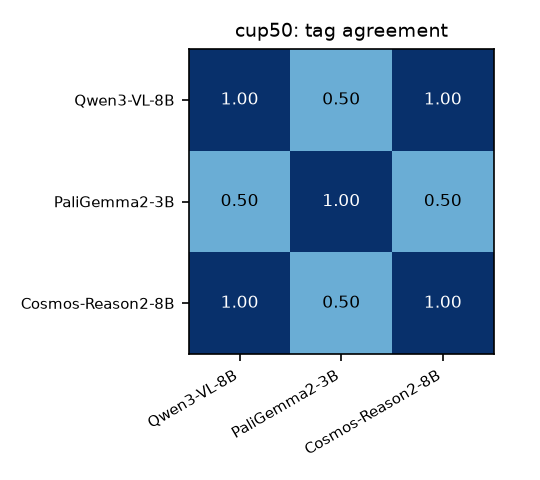
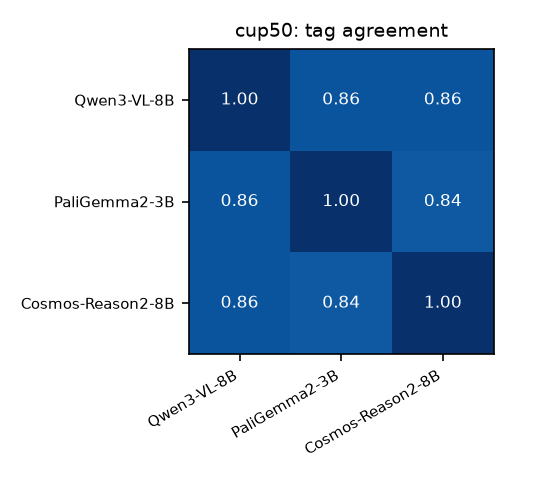
cup50: all three VLMs on all 50 clips; fused final verdict 35/15 (30% failure), 27/50 unanimous
PaliGemma re-run with the direct 'is the cup resting on the saucer?'
question: its late p(done) range went from 0.28-0.65 (hedging) to
0.07-0.97. Report, README, slide numbers refreshed.

Changed region(s): [[0.3259, 0.0938, 0.9185, 0.75]]

diff --git a/SLIDE.html b/SLIDE.html
@@ -37,7 +37,7 @@
         <tr><th>Track 3 asks for</th><th>We ship</th></tr>
         <tr><td>Tagged episodes</td><td>success/failure per episode from per-frame <b>p(goal state)</b> read from Qwen3-VL / Cosmos-Reason2 / PaliGemma logits</td></tr>
         <tr><td>Confidence meter</td><td>the p(done) curve itself, rendered as a video per episode (bar + sparkline)</td></tr>
-        <tr><td>Prevalence audit</td><td>SAM 3 cup-in-saucer test on 50 human clips → <span class="big">28% failure</span></td></tr>
+        <tr><td>Prevalence audit</td><td>SAM 3 + 3 VLMs fused on 50 human clips → <span class="big">30% failure</span></td></tr>
       </table>
     </div>
 
@@ -61,7 +61,7 @@
       <h2>Unlabelled human video — three VLM lineages, one code path</h2>
       <table>
         <tr><th></th><th>Qwen3-VL-8B</th><th>PaliGemma2-3B</th><th>Cosmos-Reason2-8B</th><th>SAM 3</th></tr>
-        <tr><td>cup50 short clips (n=8, end of clip)</td><td class="num">8/9 ✅</td><td class="num">3/8</td><td class="num">7/8</td><td class="num"><b>36/50 → 28% fail</b></td></tr>
+        <tr><td>cup50 clips (n=50, end of clip)</td><td class="num">39/50 ✅</td><td class="num">42/50</td><td class="num">34/50</td><td class="num"><b>fused: 35/50 → 30% fail</b></td></tr>
         <tr><td>aria 2-min egocentric (n=8, peak)</td><td class="num">8/8</td><td class="num">8/8</td><td class="num">6/8</td><td class="num">2/5</td></tr>
       </table>
     </div>

diff --git a/results/README.md b/results/README.md
@@ -7,9 +7,9 @@ Generated by `fuse/report.py` from the traces on disk.
 | dataset | model | n | tag stat | tagged success | tagged failure | failure prevalence | success @late | success @max | accuracy | AUROC |
 |---|---|---|---|---|---|---|---|---|---|---|
 | eva | Qwen3-VL-8B | 20 | late | 10 | 10 | 50% | 10/20 | 17/20 | 0.70 | 0.83 |
-| cup50 | Qwen3-VL-8B | 9 | late | 8 | 1 | 11% | 8/9 | 8/9 | — | — |
-| cup50 | PaliGemma2-3B | 8 | late | 3 | 5 | 62% | 3/8 | 8/8 | — | — |
-| cup50 | Cosmos-Reason2-8B | 8 | late | 7 | 1 | 12% | 7/8 | 8/8 | — | — |
+| cup50 | Qwen3-VL-8B | 50 | late | 39 | 11 | 22% | 39/50 | 48/50 | — | — |
+| cup50 | PaliGemma2-3B | 50 | late | 42 | 8 | 16% | 42/50 | 49/50 | — | — |
+| cup50 | Cosmos-Reason2-8B | 50 | late | 34 | 16 | 32% | 34/50 | 47/50 | — | — |
 | aria | Qwen3-VL-8B | 8 | max | 8 | 0 | 0% | 0/8 | 8/8 | — | — |
 | aria | PaliGemma2-3B | 8 | max | 8 | 0 | 0% | 4/8 | 8/8 | — | — |
 | aria | Cosmos-Reason2-8B | 8 | max | 6 | 2 | 25% | 0/8 | 6/8 | — | — |
@@ -53,15 +53,56 @@ Accuracy/AUROC only where ground truth exists (eva); AUROC is threshold-free. Ta
 
 | episode | label | Qwen3-VL-8B (late) | PaliGemma2-3B (late) | Cosmos-Reason2-8B (late) | SEG | consensus |
 |---|---|---|---|---|---|---|
-| 2025-11-14-16-19-50-305000 | — | ✅ 0.53 (late 0.53 / max 1.00) | — | — | ✅ 0.50 | success (2/2) |
-| 692e98927641010d04354574 | — | ✅ 1.00 (late 1.00 / max 1.00) | ✅ 0.58 (late 0.58 / max 0.68) | ✅ 0.96 (late 0.96 / max 0.96) | ✅ 1.00 | success (4/4) |
-| 692e9b6668228e362d908f0e | — | ✅ 1.00 (late 1.00 / max 1.00) | ❌ 0.32 (late 0.32 / max 0.56) | ✅ 0.94 (late 0.94 / max 0.97) | ✅ 1.00 | success (3/4) |
-| 692e9fa092a31767e35da22c | — | ✅ 0.92 (late 0.92 / max 0.98) | ❌ 0.41 (late 0.41 / max 0.59) | ✅ 0.75 (late 0.75 / max 0.75) | ✅ 1.00 | success (3/4) |
-| 692ea164e2322e3b092b5dd8 | — | ✅ 1.00 (late 1.00 / max 1.00) | ❌ 0.47 (late 0.47 / max 0.58) | ✅ 0.88 (late 0.88 / max 0.88) | ✅ 1.00 | success (3/4) |
-| 692ea2012c8fefa9948e8dd0 | — | ✅ 1.00 (late 1.00 / max 1.00) | ✅ 0.55 (late 0.55 / max 0.68) | ✅ 0.95 (late 0.95 / max 0.95) | ✅ 1.00 | success (4/4) |
-| 692ea3beffdc0ca6345c4246 | — | ❌ 0.00 (late 0.00 / max 0.38) | ❌ 0.47 (late 0.47 / max 0.55) | ❌ 0.32 (late 0.32 / max 0.78) | ✅ 1.00 | failure (1/4) |
-| 692ea4da74b24813e759755d | — | ✅ 1.00 (late 1.00 / max 1.00) | ✅ 0.59 (late 0.59 / max 0.71) | ✅ 0.86 (late 0.86 / max 0.90) | ✅ 1.00 | success (4/4) |
-| 692ea671dbc4294a49cc727e | — | ✅ 0.56 (late 0.56 / max 0.94) | ❌ 0.44 (late 0.44 / max 0.56) | ✅ 0.73 (late 0.73 / max 0.85) | ❌ 0.00 | split (2/4) |
+| 2025-11-14-16-19-50-305000 | — | ✅ 0.52 (late 0.52 / max 1.00) | ✅ 0.55 (late 0.55 / max 0.94) | ✅ 0.51 (late 0.51 / max 0.99) | ✅ 0.50 | success (4/4) |
+| 2025-11-14-16-39-40-009000 | — | ❌ 0.47 (late 0.47 / max 1.00) | ❌ 0.44 (late 0.44 / max 0.98) | ❌ 0.42 (late 0.42 / max 0.98) | ❌ 0.44 | failure (0/4) |
+| 2025-11-24-19-42-18-324000 | — | ❌ 0.21 (late 0.21 / max 1.00) | ❌ 0.34 (late 0.34 / max 0.94) | ❌ 0.23 (late 0.23 / max 0.93) | ❌ 0.28 | failure (0/4) |
+| 2025-11-30-16-25-06-265000 | — | ❌ 0.33 (late 0.33 / max 1.00) | ✅ 0.52 (late 0.52 / max 0.96) | ❌ 0.45 (late 0.45 / max 0.96) | ❌ 0.04 | failure (1/4) |
+| 2025-12-24-19-36-56-086000 | — | ❌ 0.18 (late 0.18 / max 1.00) | ❌ 0.45 (late 0.45 / max 0.97) | ❌ 0.14 (late 0.14 / max 0.65) | ❌ 0.30 | failure (0/4) |
+| 2025-12-25-20-00-08-755000 | — | ✅ 0.88 (late 0.88 / max 1.00) | ✅ 0.84 (late 0.84 / max 0.97) | ❌ 0.37 (late 0.37 / max 0.56) | ✅ 1.00 | success (3/4) |
+| 2025-12-26-00-56-41-044000 | — | ✅ 0.79 (late 0.79 / max 0.99) | ❌ 0.39 (late 0.39 / max 0.92) | ❌ 0.44 (late 0.44 / max 0.68) | ✅ 1.00 | split (2/4) |
+| 2025-12-26-18-05-07-214000 | — | ✅ 0.54 (late 0.54 / max 0.99) | ✅ 0.61 (late 0.61 / max 0.94) | ❌ 0.12 (late 0.12 / max 0.25) | ✅ 0.60 | success (3/4) |
+| 2025-12-26-18-31-01-838000 | — | ✅ 0.50 (late 0.50 / max 1.00) | ❌ 0.18 (late 0.18 / max 0.86) | ❌ 0.14 (late 0.14 / max 0.59) | ✅ 0.57 | split (2/4) |
+| 2026-01-11-18-13-58-430000 | — | ✅ 0.51 (late 0.51 / max 0.90) | ✅ 0.67 (late 0.67 / max 0.87) | ❌ 0.14 (late 0.14 / max 0.29) | ✅ 0.83 | success (3/4) |
+| 2026-01-11-23-11-22-998000 | — | ❌ 0.00 (late 0.00 / max 0.00) | ❌ 0.07 (late 0.07 / max 0.07) | ❌ 0.00 (late 0.00 / max 0.00) | ❌ 0.00 | failure (0/4) |
+| 2026-01-20-19-49-03-357000 | — | ❌ 0.15 (late 0.15 / max 0.99) | ❌ 0.21 (late 0.21 / max 0.78) | ❌ 0.23 (late 0.23 / max 0.84) | ❌ 0.27 | failure (0/4) |
+| 2026-01-24-05-29-04-636000 | — | ❌ 0.33 (late 0.33 / max 1.00) | ❌ 0.38 (late 0.38 / max 0.96) | ❌ 0.33 (late 0.33 / max 0.98) | ❌ 0.35 | failure (0/4) |
+| 692e98927641010d04354574 | — | ✅ 1.00 (late 1.00 / max 1.00) | ✅ 0.79 (late 0.79 / max 0.86) | ✅ 0.96 (late 0.96 / max 0.96) | ✅ 1.00 | success (4/4) |
+| 692e9b6668228e362d908f0e | — | ✅ 1.00 (late 1.00 / max 1.00) | ✅ 0.95 (late 0.95 / max 0.95) | ✅ 0.94 (late 0.94 / max 0.97) | ✅ 1.00 | success (4/4) |
+| 692e9fa092a31767e35da22c | — | ✅ 0.92 (late 0.92 / max 0.98) | ✅ 0.59 (late 0.59 / max 0.88) | ✅ 0.75 (late 0.75 / max 0.75) | ✅ 1.00 | success (4/4) |
+| 692ea164e2322e3b092b5dd8 | — | ✅ 1.00 (late 1.00 / max 1.00) | ✅ 0.87 (late 0.87 / max 0.87) | ✅ 0.88 (late 0.88 / max 0.88) | ✅ 1.00 | success (4/4) |
+| 692ea2012c8fefa9948e8dd0 | — | ✅ 1.00 (late 1.00 / max 1.00) | ✅ 0.83 (late 0.83 / max 0.83) | ✅ 0.95 (late 0.95 / max 0.95) | ✅ 1.00 | success (4/4) |
+| 692ea3beffdc0ca6345c4246 | — | ❌ 0.00 (late 0.00 / max 0.38) | ✅ 0.58 (late 0.58 / max 0.58) | ❌ 0.32 (late 0.32 / max 0.78) | ✅ 1.00 | split (2/4) |
+| 692ea4da74b24813e759755d | — | ✅ 1.00 (late 1.00 / max 1.00) | ✅ 0.94 (late 0.94 / max 0.97) | ✅ 0.86 (late 0.86 / max 0.90) | ✅ 1.00 | success (4/4) |
+| 692ea671dbc4294a49cc727e | — | ✅ 0.56 (late 0.56 / max 0.94) | ✅ 0.74 (late 0.74 / max 0.97) | ✅ 0.73 (late 0.73 / max 0.85) | ❌ 0.00 | success (3/4) |
+| 692ea6ffc621d7f4aac3aafc | — | ❌ 0.32 (late 0.32 / max 0.99) | ✅ 0.83 (late 0.83 / max 0.83) | ✅ 0.50 (late 0.50 / max 0.85) | ❌ 0.00 | split (2/4) |
+| 692ea773b77ab81b8b41ee87 | — | ✅ 1.00 (late 1.00 / max 1.00) | ✅ 0.87 (late 0.87 / max 0.87) | ✅ 0.78 (late 0.78 / max 0.78) | ✅ 1.00 | success (4/4) |
+| 692ea7b368228e362d90908e | — | ✅ 1.00 (late 1.00 / max 1.00) | ✅ 0.92 (late 0.92 / max 0.92) | ✅ 0.94 (late 0.94 / max 0.97) | ✅ 1.00 | success (4/4) |
+| 692ea7ff4e7eab2cafd26992 | — | ✅ 0.98 (late 0.98 / max 0.99) | ✅ 0.94 (late 0.94 / max 0.94) | ✅ 0.89 (late 0.89 / max 0.90) | ✅ 1.00 | success (4/4) |
+| 692ea886e2322e3b092b5ee5 | — | ✅ 0.88 (late 0.88 / max 0.94) | ✅ 0.73 (late 0.73 / max 0.83) | ❌ 0.44 (late 0.44 / max 0.88) | ✅ 1.00 | success (3/4) |
+| 692ea8fb727c13b350cb7cb8 | — | ✅ 1.00 (late 1.00 / max 1.00) | ✅ 0.96 (late 0.96 / max 0.96) | ✅ 0.96 (late 0.96 / max 0.96) | ✅ 1.00 | success (4/4) |
+| 692ea92a99488ff84776f987 | — | ✅ 0.73 (late 0.73 / max 1.00) | ✅ 0.85 (late 0.85 / max 0.85) | ✅ 0.75 (late 0.75 / max 0.90) | ❌ 0.00 | success (3/4) |
+| 692ea97bea43f09edf26f5fb | — | ✅ 0.99 (late 0.99 / max 0.99) | ✅ 0.86 (late 0.86 / max 0.86) | ✅ 0.88 (late 0.88 / max 0.88) | ❌ 0.00 | success (3/4) |
+| 692ea9bc95aad87d3e34466a | — | ✅ 0.99 (late 0.99 / max 1.00) | ✅ 0.64 (late 0.64 / max 0.85) | ✅ 0.82 (late 0.82 / max 0.90) | ✅ 1.00 | success (4/4) |
+| 692ea9ffaec602a46af10605 | — | ✅ 0.50 (late 0.50 / max 0.50) | ✅ 0.86 (late 0.86 / max 0.86) | ✅ 0.62 (late 0.62 / max 0.62) | ✅ 1.00 | success (4/4) |
+| 692eaa05c7cb0e94dc84bbf5 | — | ❌ 0.44 (late 0.44 / max 0.99) | ✅ 0.71 (late 0.71 / max 0.79) | ❌ 0.47 (late 0.47 / max 0.75) | ✅ 1.00 | split (2/4) |
+| 692eaa59a0e165ab2e42e516 | — | ✅ 0.96 (late 0.96 / max 0.96) | ✅ 0.90 (late 0.90 / max 0.90) | ✅ 0.95 (late 0.95 / max 0.95) | ❌ 0.00 | success (3/4) |
+| 692eaa5fd3d807884d4dd7ae | — | ✅ 1.00 (late 1.00 / max 1.00) | ✅ 0.90 (late 0.90 / max 0.90) | ✅ 0.90 (late 0.90 / max 0.90) | ✅ 1.00 | success (4/4) |
+| 692eaa76dfa4113987776a57 | — | ✅ 0.95 (late 0.95 / max 0.95) | ✅ 0.97 (late 0.97 / max 0.97) | ✅ 0.88 (late 0.88 / max 0.88) | ❌ 0.00 | success (3/4) |
+| 692eaac0c621d7f4aac3ab9d | — | ✅ 1.00 (late 1.00 / max 1.00) | ✅ 0.91 (late 0.91 / max 0.91) | ✅ 0.96 (late 0.96 / max 0.96) | ✅ 1.00 | success (4/4) |
+| 692eab1cb77ab81b8b41eeec | — | ✅ 0.95 (late 0.95 / max 0.95) | ✅ 0.80 (late 0.80 / max 0.80) | ✅ 0.88 (late 0.88 / max 0.89) | ✅ 1.00 | success (4/4) |
+| 692eac0739719ab57395b969 | — | ✅ 0.78 (late 0.78 / max 0.94) | ✅ 0.65 (late 0.65 / max 0.86) | ✅ 0.59 (late 0.59 / max 0.68) | ✅ 1.00 | success (4/4) |
+| 692eac2caec602a46af1065e | — | ✅ 0.95 (late 0.95 / max 0.95) | ✅ 0.73 (late 0.73 / max 0.73) | ✅ 0.89 (late 0.89 / max 0.89) | ✅ 1.00 | success (4/4) |
+| 692eac7274b24813e759760d | — | ✅ 1.00 (late 1.00 / max 1.00) | ✅ 0.93 (late 0.93 / max 0.93) | ✅ 0.59 (late 0.59 / max 0.73) | ✅ 1.00 | success (4/4) |
+| 692ead5d3019385fbbf5683e | — | ✅ 1.00 (late 1.00 / max 1.00) | ✅ 0.67 (late 0.67 / max 0.67) | ✅ 0.75 (late 0.75 / max 0.75) | ✅ 1.00 | success (4/4) |
+| 692ead5e3019385fbbf5684a | — | ✅ 1.00 (late 1.00 / max 1.00) | ✅ 0.73 (late 0.73 / max 0.74) | ✅ 0.84 (late 0.84 / max 0.84) | ✅ 1.00 | success (4/4) |
+| 692eae07424dbf22e75ed141 | — | ✅ 1.00 (late 1.00 / max 1.00) | ✅ 0.81 (late 0.81 / max 0.81) | ✅ 0.94 (late 0.94 / max 0.94) | ✅ 1.00 | success (4/4) |
+| 692eae54c621d7f4aac3abd6 | — | ✅ 1.00 (late 1.00 / max 1.00) | ✅ 0.83 (late 0.83 / max 0.83) | ✅ 0.95 (late 0.95 / max 0.95) | ✅ 1.00 | success (4/4) |
+| 692eae813019385fbbf56873 | — | ❌ 0.01 (late 0.01 / max 0.88) | ✅ 0.77 (late 0.77 / max 0.89) | ❌ 0.35 (late 0.35 / max 0.71) | ✅ 1.00 | split (2/4) |
+| 692eaeaa40338017b7f999ff | — | ✅ 0.88 (late 0.88 / max 0.88) | ✅ 0.68 (late 0.68 / max 0.68) | ✅ 0.73 (late 0.73 / max 0.73) | ✅ 1.00 | success (4/4) |
+| 692eaeba9cebf0ec017ddd36 | — | ✅ 1.00 (late 1.00 / max 1.00) | ✅ 0.79 (late 0.79 / max 0.84) | ✅ 0.93 (late 0.93 / max 0.93) | ✅ 1.00 | success (4/4) |
+| 692eaee539719ab57395b989 | — | ✅ 1.00 (late 1.00 / max 1.00) | ✅ 0.95 (late 0.95 / max 0.95) | ✅ 0.90 (late 0.90 / max 0.93) | ✅ 1.00 | success (4/4) |
+| 692eafd7eee2f8cb10d0f8e0 | — | ✅ 1.00 (late 1.00 / max 1.00) | ✅ 0.89 (late 0.89 / max 0.89) | ✅ 0.78 (late 0.78 / max 0.88) | ✅ 1.00 | success (4/4) |
+| 692eafd9eee2f8cb10d0f8f7 | — | ✅ 1.00 (late 1.00 / max 1.00) | ✅ 0.73 (late 0.73 / max 0.73) | ✅ 0.96 (late 0.96 / max 0.96) | ❌ 0.00 | success (3/4) |
 
 ### aria — human egocentric cup-on-saucer episodes (aria), unlabelled
 
@@ -79,9 +120,9 @@ Accuracy/AUROC only where ground truth exists (eva); AUROC is threshold-free. Ta
 ## What the model wanted to say (top-5 first tokens, last frame)
 
 - **eva / Qwen3-VL-8B** (2026-03-01-21-39-55-154000): `No`=0.9707, `Yes`=0.0293, `no`=0.0, `yes`=0.0, `There`=0.0
-- **cup50 / Qwen3-VL-8B** (2025-11-14-16-19-50-305000): `Yes`=0.9991, `yes`=0.0009, `No`=0.0, `YES`=0.0, ` Yes`=0.0
-- **cup50 / PaliGemma2-3B** (692e98927641010d04354574): `yes`=0.5175, `no`=0.3786, `answer`=0.002, `achieved`=0.0017, `un`=0.0011
-- **cup50 / Cosmos-Reason2-8B** (692e98927641010d04354574): `Yes`=0.9626, `No`=0.0373, ` Yes`=0.0, `yes`=0.0, `Y`=0.0
+- **cup50 / Qwen3-VL-8B** (2025-11-14-16-19-50-305000): `Yes`=1.0, `No`=0.0, `yes`=0.0, ` Yes`=0.0, `YES`=0.0
+- **cup50 / PaliGemma2-3B** (2025-11-14-16-19-50-305000): `yes`=0.7752, `no`=0.1526, `on`=0.0012, `answer`=0.0003, `both`=0.0002
+- **cup50 / Cosmos-Reason2-8B** (2025-11-14-16-19-50-305000): `Yes`=0.984, `No`=0.0159, `yes`=0.0, ` Yes`=0.0, `Y`=0.0
 - **aria / Qwen3-VL-8B** (2025-11-24-23-59-28-546000): `No`=1.0, `Yes`=0.0, `no`=0.0, `NO`=0.0, `There`=0.0
 - **aria / PaliGemma2-3B** (2025-11-24-23-59-28-546000): `no`=0.3464, `yes`=0.2381, `un`=0.2381, `achieved`=0.0111, `unknown`=0.0044
 - **aria / Cosmos-Reason2-8B** (2025-11-24-23-59-28-546000): `No`=0.9963, `Yes`=0.0036, `no`=0.0, `NO`=0.0, ` No`=0.0
@@ -95,6 +136,10 @@ Accuracy/AUROC only where ground truth exists (eva); AUROC is threshold-free. Ta
 ### agreement_cup50
 
 ![agreement_cup50](agreement_cup50.png)
+
+### aria_split_2025-11-24-23-59-28-546000
+
+![aria_split_2025-11-24-23-59-28-546000](aria_split_2025-11-24-23-59-28-546000.png)
 
 ### eva_roc
 

diff --git a/results/cup50_final.md b/results/cup50_final.md
@@ -1,60 +1,60 @@
 # cup50 — final verdict (SAM 3 + VLMs)
 
-**Success = the cup ends up on the saucer; failure = it does not.** 50 episodes · 9 with VLM scores (cosmos, paligemma, qwen) · rest SEG-only. final = mean(SEG, mean(VLMs)) ≥ 0.5. Statistic: `late`.
+**Success = the cup ends up on the saucer; failure = it does not.** 50 episodes · 50 with VLM scores (cosmos, paligemma, qwen) · rest SEG-only. final = mean(SEG, mean(VLMs)) ≥ 0.5. Statistic: `late`.
 
-**Final: 36 success / 14 failure → 28% failure prevalence**
+**Final: 35 success / 15 failure → 30% failure prevalence**
 
-On the 9 episodes with all signals: 8 success / 1 failure.
+On the 50 episodes with all signals: 35 success / 15 failure.
 
 | episode | label | SEG | cosmos | paligemma | qwen | final | votes ✅ | verdict |
 |---|---|---|---|---|---|---|---|---|
-| 2025-11-14-16-19-50-305000 | — | 0.50 | — | — | 0.53 | 0.51 | 2/2 | ✅ success |
-| 2025-11-14-16-39-40-009000 | — | 0.44 | — | — | — | 0.44 | 0/1 | ❌ failure (SEG only) |
-| 2025-11-24-19-42-18-324000 | — | 0.28 | — | — | — | 0.28 | 0/1 | ❌ failure (SEG only) |
-| 2025-11-30-16-25-06-265000 | — | 0.04 | — | — | — | 0.04 | 0/1 | ❌ failure (SEG only) |
-| 2025-12-24-19-36-56-086000 | — | 0.30 | — | — | — | 0.30 | 0/1 | ❌ failure (SEG only) |
-| 2025-12-25-20-00-08-755000 | — | 1.00 | — | — | — | 1.00 | 1/1 | ✅ success (SEG only) |
-| 2025-12-26-00-56-41-044000 | — | 1.00 | — | — | — | 1.00 | 1/1 | ✅ success (SEG only) |
-| 2025-12-26-18-05-07-214000 | — | 0.60 | — | — | — | 0.60 | 1/1 | ✅ success (SEG only) |
-| 2025-12-26-18-31-01-838000 | — | 0.57 | — | — | — | 0.57 | 1/1 | ✅ success (SEG only) |
-| 2026-01-11-18-13-58-430000 | — | 0.83 | — | — | — | 0.83 | 1/1 | ✅ success (SEG only) |
-| 2026-01-11-23-11-22-998000 | — | 0.00 | — | — | — | 0.00 | 0/1 | ❌ failure (SEG only) |
-| 2026-01-20-19-49-03-357000 | — | 0.27 | — | — | — | 0.27 | 0/1 | ❌ failure (SEG only) |
-| 2026-01-24-05-29-04-636000 | — | 0.35 | — | — | — | 0.35 | 0/1 | ❌ failure (SEG only) |
-| 692e98927641010d04354574 | — | 1.00 | 0.96 | 0.58 | 1.00 | 0.92 | 4/4 | ✅ success |
-| 692e9b6668228e362d908f0e | — | 1.00 | 0.94 | 0.32 | 1.00 | 0.88 | 3/4 | ✅ success |
-| 692e9fa092a31767e35da22c | — | 1.00 | 0.75 | 0.41 | 0.92 | 0.85 | 3/4 | ✅ success |
-| 692ea164e2322e3b092b5dd8 | — | 1.00 | 0.88 | 0.47 | 1.00 | 0.89 | 3/4 | ✅ success |
-| 692ea2012c8fefa9948e8dd0 | — | 1.00 | 0.95 | 0.55 | 1.00 | 0.92 | 4/4 | ✅ success |
-| 692ea3beffdc0ca6345c4246 | — | 1.00 | 0.32 | 0.47 | 0.00 | 0.63 | 1/4 | ✅ success |
-| 692ea4da74b24813e759755d | — | 1.00 | 0.86 | 0.59 | 1.00 | 0.91 | 4/4 | ✅ success |
-| 692ea671dbc4294a49cc727e | — | 0.00 | 0.73 | 0.44 | 0.56 | 0.29 | 2/4 | ❌ failure |
-| 692ea6ffc621d7f4aac3aafc | — | 0.00 | — | — | — | 0.00 | 0/1 | ❌ failure (SEG only) |
-| 692ea773b77ab81b8b41ee87 | — | 1.00 | — | — | — | 1.00 | 1/1 | ✅ success (SEG only) |
-| 692ea7b368228e362d90908e | — | 1.00 | — | — | — | 1.00 | 1/1 | ✅ success (SEG only) |
-| 692ea7ff4e7eab2cafd26992 | — | 1.00 | — | — | — | 1.00 | 1/1 | ✅ success (SEG only) |
-| 692ea886e2322e3b092b5ee5 | — | 1.00 | — | — | — | 1.00 | 1/1 | ✅ success (SEG only) |
-| 692ea8fb727c13b350cb7cb8 | — | 1.00 | — | — | — | 1.00 | 1/1 | ✅ success (SEG only) |
-| 692ea92a99488ff84776f987 | — | 0.00 | — | — | — | 0.00 | 0/1 | ❌ failure (SEG only) |
-| 692ea97bea43f09edf26f5fb | — | 0.00 | — | — | — | 0.00 | 0/1 | ❌ failure (SEG only) |
-| 692ea9bc95aad87d3e34466a | — | 1.00 | — | — | — | 1.00 | 1/1 | ✅ success (SEG only) |
-| 692ea9ffaec602a46af10605 | — | 1.00 | — | — | — | 1.00 | 1/1 | ✅ success (SEG only) |
-| 692eaa05c7cb0e94dc84bbf5 | — | 1.00 | — | — | — | 1.00 | 1/1 | ✅ success (SEG only) |
-| 692eaa59a0e165ab2e42e516 | — | 0.00 | — | — | — | 0.00 | 0/1 | ❌ failure (SEG only) |
-| 692eaa5fd3d807884d4dd7ae | — | 1.00 | — | — | — | 1.00 | 1/1 | ✅ success (SEG only) |
-| 692eaa76dfa4113987776a57 | — | 0.00 | — | — | — | 0.00 | 0/1 | ❌ failure (SEG only) |
-| 692eaac0c621d7f4aac3ab9d | — | 1.00 | — | — | — | 1.00 | 1/1 | ✅ success (SEG only) |
-| 692eab1cb77ab81b8b41eeec | — | 1.00 | — | — | — | 1.00 | 1/1 | ✅ success (SEG only) |
-| 692eac0739719ab57395b969 | — | 1.00 | — | — | — | 1.00 | 1/1 | ✅ success (SEG only) |
-| 692eac2caec602a46af1065e | — | 1.00 | — | — | — | 1.00 | 1/1 | ✅ success (SEG only) |
-| 692eac7274b24813e759760d | — | 1.00 | — | — | — | 1.00 | 1/1 | ✅ success (SEG only) |
-| 692ead5d3019385fbbf5683e | — | 1.00 | — | — | — | 1.00 | 1/1 | ✅ success (SEG only) |
-| 692ead5e3019385fbbf5684a | — | 1.00 | — | — | — | 1.00 | 1/1 | ✅ success (SEG only) |
-| 692eae07424dbf22e75ed141 | — | 1.00 | — | — | — | 1.00 | 1/1 | ✅ success (SEG only) |
-| 692eae54c621d7f4aac3abd6 | — | 1.00 | — | — | — | 1.00 | 1/1 | ✅ success (SEG only) |
-| 692eae813019385fbbf56873 | — | 1.00 | — | — | — | 1.00 | 1/1 | ✅ success (SEG only) |
-| 692eaeaa40338017b7f999ff | — | 1.00 | — | — | — | 1.00 | 1/1 | ✅ success (SEG only) |
-| 692eaeba9cebf0ec017ddd36 | — | 1.00 | — | — | — | 1.00 | 1/1 | ✅ success (SEG only) |
-| 692eaee539719ab57395b989 | — | 1.00 | — | — | — | 1.00 | 1/1 | ✅ success (SEG only) |
-| 692eafd7eee2f8cb10d0f8e0 | — | 1.00 | — | — | — | 1.00 | 1/1 | ✅ success (SEG only) |
-| 692eafd9eee2f8cb10d0f8f7 | — | 0.00 | — | — | — | 0.00 | 0/1 | ❌ failure (SEG only) |
+| 2025-11-14-16-19-50-305000 | — | 0.50 | 0.51 | 0.55 | 0.52 | 0.51 | 4/4 | ✅ success |
+| 2025-11-14-16-39-40-009000 | — | 0.44 | 0.42 | 0.44 | 0.47 | 0.44 | 0/4 | ❌ failure |
+| 2025-11-24-19-42-18-324000 | — | 0.28 | 0.23 | 0.34 | 0.21 | 0.27 | 0/4 | ❌ failure |
+| 2025-11-30-16-25-06-265000 | — | 0.04 | 0.45 | 0.52 | 0.33 | 0.24 | 1/4 | ❌ failure |
+| 2025-12-24-19-36-56-086000 | — | 0.30 | 0.14 | 0.45 | 0.18 | 0.28 | 0/4 | ❌ failure |
+| 2025-12-25-20-00-08-755000 | — | 1.00 | 0.37 | 0.84 | 0.88 | 0.85 | 3/4 | ✅ success |
+| 2025-12-26-00-56-41-044000 | — | 1.00 | 0.44 | 0.39 | 0.79 | 0.77 | 2/4 | ✅ success |
+| 2025-12-26-18-05-07-214000 | — | 0.60 | 0.12 | 0.61 | 0.54 | 0.51 | 3/4 | ✅ success |
+| 2025-12-26-18-31-01-838000 | — | 0.57 | 0.14 | 0.18 | 0.50 | 0.42 | 2/4 | ❌ failure |
+| 2026-01-11-18-13-58-430000 | — | 0.83 | 0.14 | 0.67 | 0.51 | 0.64 | 3/4 | ✅ success |
+| 2026-01-11-23-11-22-998000 | — | 0.00 | 0.00 | 0.07 | 0.00 | 0.01 | 0/4 | ❌ failure |
+| 2026-01-20-19-49-03-357000 | — | 0.27 | 0.23 | 0.21 | 0.15 | 0.23 | 0/4 | ❌ failure |
+| 2026-01-24-05-29-04-636000 | — | 0.35 | 0.33 | 0.38 | 0.33 | 0.35 | 0/4 | ❌ failure |
+| 692e98927641010d04354574 | — | 1.00 | 0.96 | 0.79 | 1.00 | 0.96 | 4/4 | ✅ success |
+| 692e9b6668228e362d908f0e | — | 1.00 | 0.94 | 0.95 | 1.00 | 0.98 | 4/4 | ✅ success |
+| 692e9fa092a31767e35da22c | — | 1.00 | 0.75 | 0.59 | 0.92 | 0.88 | 4/4 | ✅ success |
+| 692ea164e2322e3b092b5dd8 | — | 1.00 | 0.88 | 0.87 | 1.00 | 0.96 | 4/4 | ✅ success |
+| 692ea2012c8fefa9948e8dd0 | — | 1.00 | 0.95 | 0.83 | 1.00 | 0.96 | 4/4 | ✅ success |
+| 692ea3beffdc0ca6345c4246 | — | 1.00 | 0.32 | 0.58 | 0.00 | 0.65 | 2/4 | ✅ success |
+| 692ea4da74b24813e759755d | — | 1.00 | 0.86 | 0.94 | 1.00 | 0.97 | 4/4 | ✅ success |
+| 692ea671dbc4294a49cc727e | — | 0.00 | 0.73 | 0.74 | 0.56 | 0.34 | 3/4 | ❌ failure |
+| 692ea6ffc621d7f4aac3aafc | — | 0.00 | 0.50 | 0.83 | 0.32 | 0.27 | 2/4 | ❌ failure |
+| 692ea773b77ab81b8b41ee87 | — | 1.00 | 0.78 | 0.87 | 1.00 | 0.94 | 4/4 | ✅ success |
+| 692ea7b368228e362d90908e | — | 1.00 | 0.94 | 0.92 | 1.00 | 0.98 | 4/4 | ✅ success |
+| 692ea7ff4e7eab2cafd26992 | — | 1.00 | 0.89 | 0.94 | 0.98 | 0.97 | 4/4 | ✅ success |
+| 692ea886e2322e3b092b5ee5 | — | 1.00 | 0.44 | 0.73 | 0.88 | 0.84 | 3/4 | ✅ success |
+| 692ea8fb727c13b350cb7cb8 | — | 1.00 | 0.96 | 0.96 | 1.00 | 0.99 | 4/4 | ✅ success |
+| 692ea92a99488ff84776f987 | — | 0.00 | 0.75 | 0.85 | 0.73 | 0.39 | 3/4 | ❌ failure |
+| 692ea97bea43f09edf26f5fb | — | 0.00 | 0.88 | 0.86 | 0.99 | 0.46 | 3/4 | ❌ failure |
+| 692ea9bc95aad87d3e34466a | — | 1.00 | 0.82 | 0.64 | 0.99 | 0.91 | 4/4 | ✅ success |
+| 692ea9ffaec602a46af10605 | — | 1.00 | 0.62 | 0.86 | 0.50 | 0.83 | 4/4 | ✅ success |
+| 692eaa05c7cb0e94dc84bbf5 | — | 1.00 | 0.47 | 0.71 | 0.44 | 0.77 | 2/4 | ✅ success |
+| 692eaa59a0e165ab2e42e516 | — | 0.00 | 0.95 | 0.90 | 0.96 | 0.47 | 3/4 | ❌ failure |
+| 692eaa5fd3d807884d4dd7ae | — | 1.00 | 0.90 | 0.90 | 1.00 | 0.97 | 4/4 | ✅ success |
+| 692eaa76dfa4113987776a57 | — | 0.00 | 0.88 | 0.97 | 0.95 | 0.47 | 3/4 | ❌ failure |
+| 692eaac0c621d7f4aac3ab9d | — | 1.00 | 0.96 | 0.91 | 1.00 | 0.98 | 4/4 | ✅ success |
+| 692eab1cb77ab81b8b41eeec | — | 1.00 | 0.88 | 0.80 | 0.95 | 0.94 | 4/4 | ✅ success |
+| 692eac0739719ab57395b969 | — | 1.00 | 0.59 | 0.65 | 0.78 | 0.84 | 4/4 | ✅ success |
+| 692eac2caec602a46af1065e | — | 1.00 | 0.89 | 0.73 | 0.95 | 0.93 | 4/4 | ✅ success |
+| 692eac7274b24813e759760d | — | 1.00 | 0.59 | 0.93 | 1.00 | 0.92 | 4/4 | ✅ success |
+| 692ead5d3019385fbbf5683e | — | 1.00 | 0.75 | 0.67 | 1.00 | 0.90 | 4/4 | ✅ success |
+| 692ead5e3019385fbbf5684a | — | 1.00 | 0.84 | 0.73 | 1.00 | 0.93 | 4/4 | ✅ success |
+| 692eae07424dbf22e75ed141 | — | 1.00 | 0.94 | 0.81 | 1.00 | 0.96 | 4/4 | ✅ success |
+| 692eae54c621d7f4aac3abd6 | — | 1.00 | 0.95 | 0.83 | 1.00 | 0.96 | 4/4 | ✅ success |
+| 692eae813019385fbbf56873 | — | 1.00 | 0.35 | 0.77 | 0.01 | 0.69 | 2/4 | ✅ success |
+| 692eaeaa40338017b7f999ff | — | 1.00 | 0.73 | 0.68 | 0.88 | 0.88 | 4/4 | ✅ success |
+| 692eaeba9cebf0ec017ddd36 | — | 1.00 | 0.93 | 0.79 | 1.00 | 0.95 | 4/4 | ✅ success |
+| 692eaee539719ab57395b989 | — | 1.00 | 0.90 | 0.95 | 1.00 | 0.98 | 4/4 | ✅ success |
+| 692eafd7eee2f8cb10d0f8e0 | — | 1.00 | 0.78 | 0.89 | 1.00 | 0.94 | 4/4 | ✅ success |
+| 692eafd9eee2f8cb10d0f8f7 | — | 0.00 | 0.96 | 0.73 | 1.00 | 0.45 | 3/4 | ❌ failure |

diff --git a/README.md b/README.md
@@ -32,7 +32,7 @@ confidence meter → episode tag → prevalence audit. Plus SAM 3 text-prompted 
 
 | | Qwen3-VL-8B | PaliGemma2-3B | Cosmos-Reason2-8B | SAM 3 |
 |---|---|---|---|---|
-| cup50 short clips (n=8, end-of-clip) | 8/9 success | 3/8 | 7/8 | **36/50 → 28% failure prevalence** |
+| cup50 clips (n=50, end-of-clip) | 39/50 success | 42/50 | 34/50 | **fused 35/50 → 30% failure prevalence** |
 | aria 2-min egocentric (n=8, peak) | 8/8 | 8/8 | 6/8 | 2/5 |
 
 **Three things we learned**
@@ -103,14 +103,14 @@ container** and written to both a local `<model>_out/` folder and the `egoverse-
 | Fused (mean of VLM+SEG, geometric veto) | 0.70 | 0.74 |
 
 **Unlabelled prevalence audit** — 50 human cup-on-saucer episodes
-([somundane/egoverse-cup50](https://huggingface.co/datasets/somundane/egoverse-cup50)), SEG criterion:
-**36 success / 14 failure → 28% failure prevalence.**
+([somundane/egoverse-cup50](https://huggingface.co/datasets/somundane/egoverse-cup50)):
+SEG alone **36/14 (28% failure)**; SAM 3 + all three VLMs fused **35/15 (30% failure)**, 27/50 unanimous.
 
 **Human sets, three critics** (8 episodes each, `p(done)` ≥ 0.5 → success):
 
 | set | statistic | Qwen3-VL-8B | PaliGemma2-3B | Cosmos-Reason2-8B |
 |---|---|---|---|---|
-| cup50 short clips | `late` (end of clip) | 8/9 success | 3/8 | 7/8 |
+| cup50 clips (n=50) | `late` (end of clip) | 39/50 success | 42/50 | 34/50 |
 | aria 80–140 s egocentric | `max` (peak) | 8/8 success | 8/8 | 6/8 |
 
 Why `max` for aria: the person looks away after placing the cup, so the goal state is not in
@@ -118,11 +118,12 @@ view at the end and `late` reads No for everything (0/8). The same statistic on 
 eva slice over-calls success (17/20), because a cup passing over the saucer mid-attempt also
 peaks — so it is a per-dataset choice, stated, and both counts are shown for every set.
 
-**Final verdict on cup50 — SAM 3 + all three VLMs combined.** Success = the cup ends up on
-the saucer; failure = it does not. `final = mean(SEG, mean(VLMs)) ≥ 0.5`, geometry and VLMs
-weighted equally so neither can outvote the other alone. **36 success / 14 failure → 28% failure
-prevalence** over 50 episodes; on the 9 with every signal, 8/1, with per-episode vote counts.
-Table: [`results/cup50_final.md`](results/cup50_final.md).
+**Final verdict on cup50 — SAM 3 + all three VLMs combined, all 50 clips.** Success = the cup
+ends up on the saucer; failure = it does not. `final = mean(SEG, mean(VLMs)) ≥ 0.5`, geometry and
+VLMs weighted equally so neither can outvote the other alone. **35 success / 15 failure → 30%
+failure prevalence.** Agreement is high: 27/50 clips are unanimous across all four signals, 37/50
+have ≥3 of 4 agreeing; only 6 are split 2–2. Table with per-episode votes:
+[`results/cup50_final.md`](results/cup50_final.md).
 
 **One aria video split into its attempts** — a 2-minute egocentric episode is not one demo,
 it's the person placing the cup again and again. Segmenting on cup rests *relative to the

diff --git a/SLIDE.md b/SLIDE.md
@@ -19,7 +19,7 @@ confidence meter → episode tag → prevalence audit. Plus SAM 3 text-prompted 
 
 | | Qwen3-VL-8B | PaliGemma2-3B | Cosmos-Reason2-8B | SAM 3 |
 |---|---|---|---|---|
-| cup50 short clips (n=8, end-of-clip) | 8/9 success | 3/8 | 7/8 | **36/50 → 28% failure prevalence** |
+| cup50 clips (n=50, end-of-clip) | 39/50 success | 42/50 | 34/50 | **fused 35/50 → 30% failure prevalence** |
 | aria 2-min egocentric (n=8, peak) | 8/8 | 8/8 | 6/8 | 2/5 |
 
 **Three things we learned**
